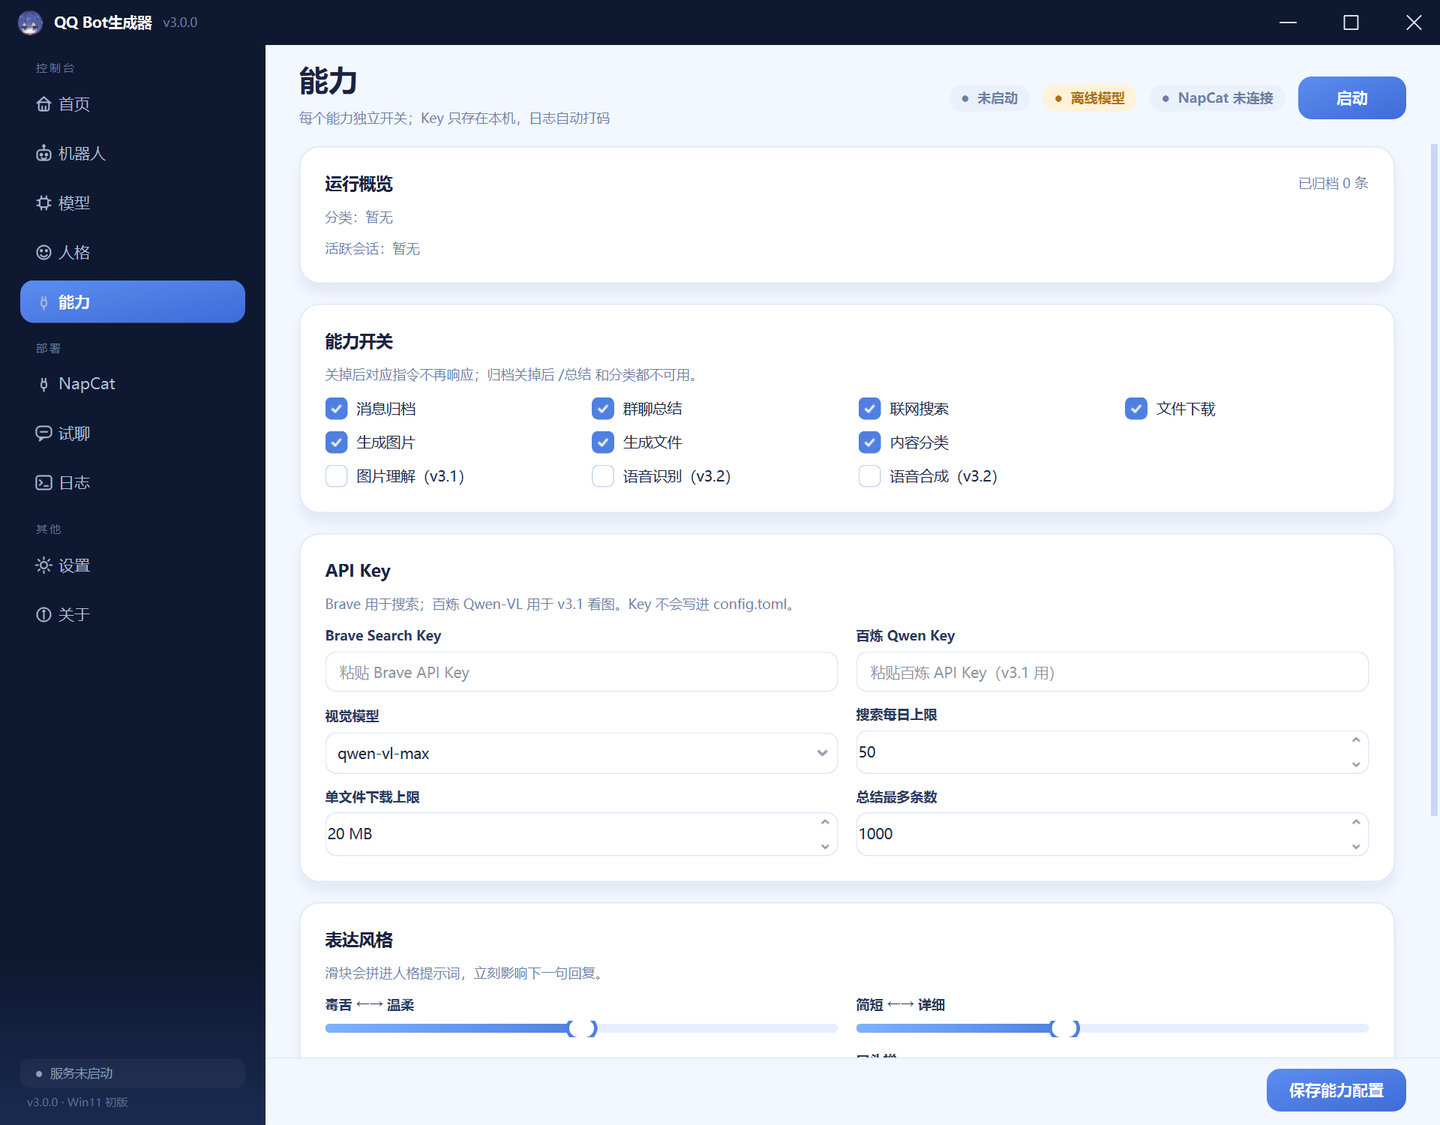
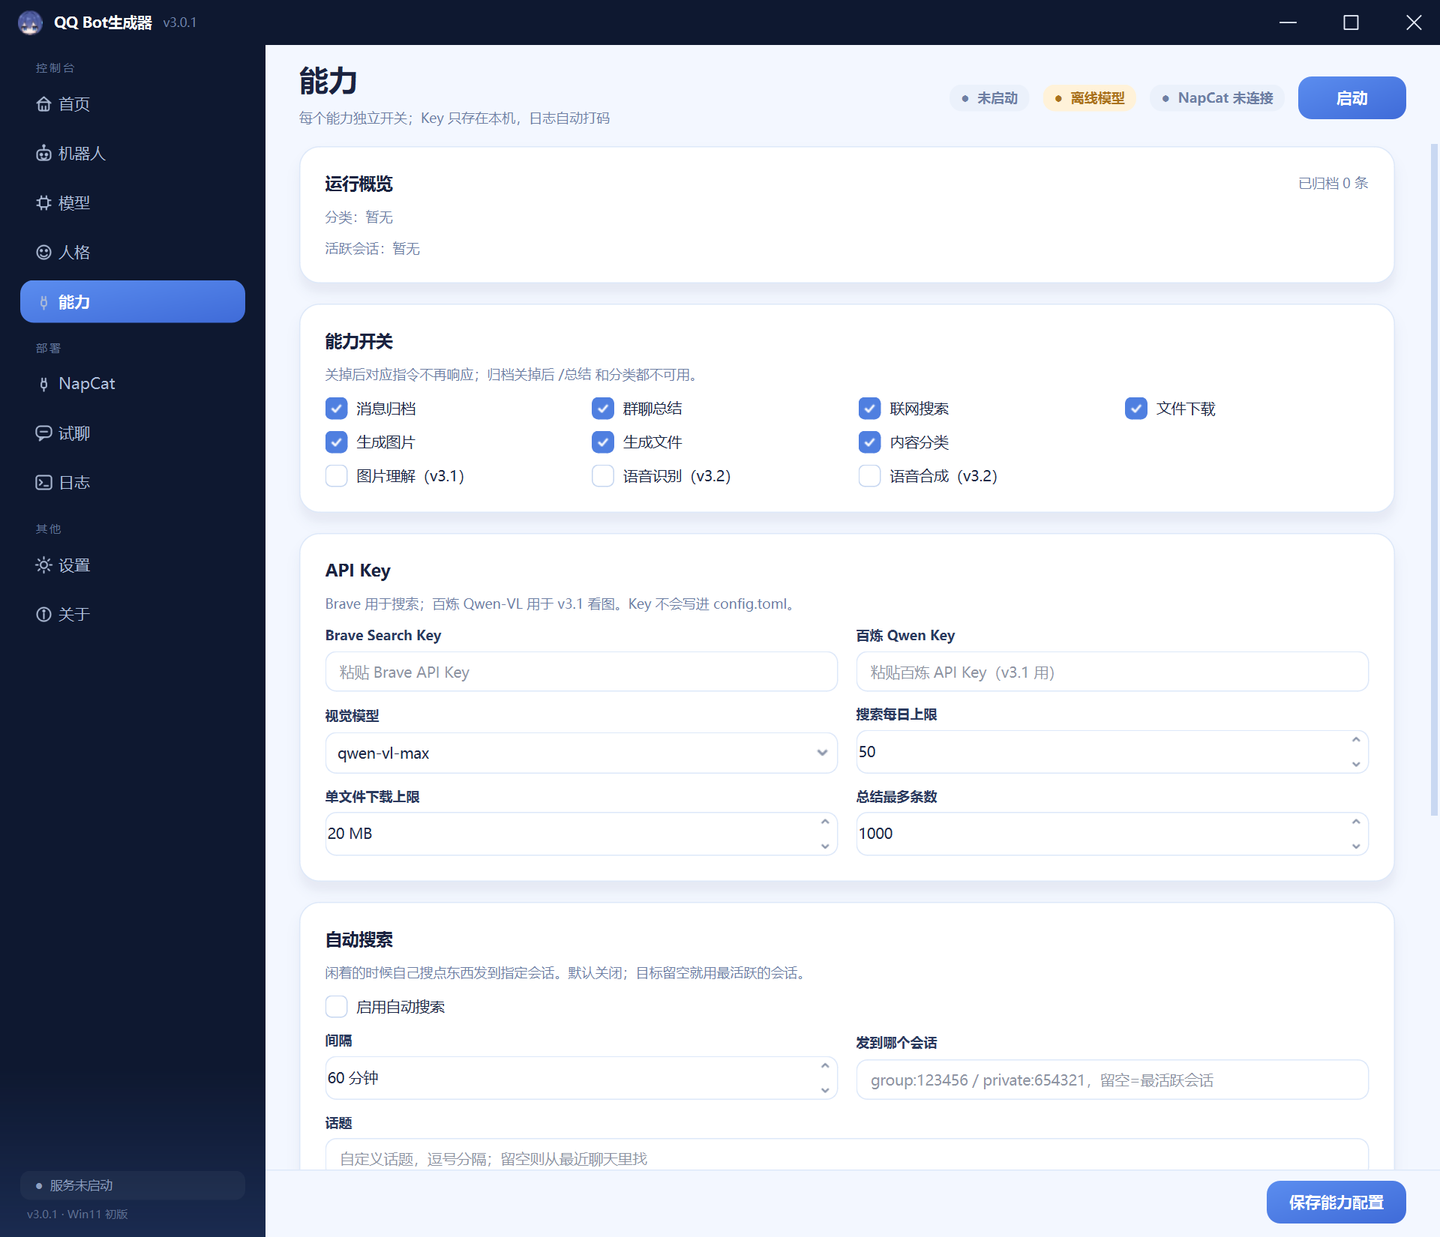
feat: natural-language capabilities and idle auto search (v3.0.1)

diff --git a/src/qqbot_core/engine.py b/src/qqbot_core/engine.py
@@ -5,6 +5,7 @@ from __future__ import annotations
 import asyncio
 import logging
 import random
+import re
 import time
 from collections import deque
 from collections.abc import Awaitable, Callable
@@ -56,6 +57,9 @@ class Engine:
         self._last_random: dict[str, float] = {}
         self._rate = RateLimiter(cfg.chat.rate_limit_per_minute, 60.0)
         self.last_replies: list[str] = []
+        self._auto_task: asyncio.Task | None = None
+        self._search_day = ""
+        self._search_used = 0
         self.features = cfg.features
         self.archive = Archive(cfg.data_dir / "archive.db") if cfg.features.archive else None
         if self.archive is not None:
@@ -77,6 +81,8 @@ class Engine:
         if self_id:
             self.self_id = self_id
         log.info("登录账号：%s（%s）", nickname or "?", self.self_id)
+        if self.features.auto_search and (self._auto_task is None or self._auto_task.done()):
+            self._auto_task = asyncio.create_task(self._auto_search_loop())
 
     # ---------------- 事件入口 ----------------
 
@@ -107,6 +113,10 @@ class Engine:
         if not text:
             return
 
+        addressed = (not incoming.is_group) or incoming.at_me or (incoming.reply_id in self._sent_set)
+        if addressed and await self._natural_intent(text, incoming):
+            return
+
         prefix = self.cfg.chat.prefixes
         at_me_or_private = incoming.at_me or not incoming.is_group
         command = parse_command(text, prefix, allow_bare=at_me_or_private)
@@ -126,6 +136,78 @@ class Engine:
         await self._reply(incoming, text)
 
     # ---------------- 指令 ----------------
+
+    async def _natural_intent(self, text: str, incoming: Incoming) -> bool:
+        """不用 / 指令：直接说“搜一下…”也能触发。"""
+        compact = text.strip()
+        search = re.match(r"^(?:帮我|给我|替我)?\s*(?:搜索一下|搜一下|搜搜|搜索|搜|查一下|查查|查)\s*[:：,，]?\s*(.*)$", compact, re.I)
+        if search and self.features.search:
+            query = search.group(1).strip(" ：:，,")
+            if not query:
+                await self._deliver(incoming, "搜什么？给我个关键词。")
+            else:
+                await self._deliver(incoming, "我去网上看看…")
+                await self._deliver(incoming, await self._search(query))
+            return True
+        summary = re.match(r"^(?:帮我|给我)?\s*(?:总结|汇总)(?:一下|下)?(?:\s*(?:最近)?\s*(\d{1,4})\s*条)?\s*$", compact)
+        if summary and self.features.summarize:
+            count = int(summary.group(1) or self.features.summary_max)
+            count = max(10, min(count, self.features.summary_max))
+            await self._deliver(incoming, "正在翻记录，等我一下…")
+            for part in split_text(await self._summarize(incoming.conversation_key, count), limit=1600):
+                await self._deliver(incoming, part)
+            return True
+        if self.features.download and ("下载" in compact or "存一下" in compact or "保存" in compact):
+            url = re.search(r"https?://\S+", compact)
+            if url:
+                await self._deliver(incoming, await self._download(url.group(0)))
+                return True
+        return False
+
+    async def _auto_search_loop(self) -> None:
+        while True:
+            interval = max(5, int(self.features.auto_search_interval or 60))
+            await asyncio.sleep(interval * 60)
+            if not self.features.auto_search:
+                continue
+            if not get_key(self.cfg.data_dir, "brave"):
+                continue
+            conv = self.features.auto_search_target.strip()
+            if not conv and self.archive:
+                rows = self.archive.conversations()
+                conv = rows[0][0] if rows else ""
+            if not conv:
+                continue
+            topic = self._pick_topic()
+            try:
+                result = await self._search(topic)
+            except Exception as exc:
+                log.warning("自动搜索失败：%s", exc)
+                continue
+            if result.startswith(("搜索失败", "还没配置", "没搜到", "今天搜索")):
+                continue
+            await self._send_to(conv, f"闲着刷到点东西：{result[:600]}")
+
+    def _pick_topic(self) -> str:
+        custom = [x.strip() for x in re.split(r"[,，;；\n]", self.features.auto_search_topics) if x.strip()]
+        if custom:
+            return random.choice(custom)
+        if self.archive:
+            rows = self.archive.recent(self.features.auto_search_target or (self.archive.conversations()[0][0] if self.archive.conversations() else ""), 30)
+            words = [w for row in rows for w in re.findall(r"[\u4e00-\u9fff]{2,6}", row["text"])]
+            if words:
+                return random.choice(words) + " 最近有什么新消息"
+        return random.choice(["今天有什么科技新闻", "最近有什么有趣的冷知识", "这周有什么值得看的新电影"])
+
+    async def _send_to(self, conversation: str, text: str) -> None:
+        if self.link is None or ":" not in conversation:
+            return
+        kind, _, raw = conversation.partition(":")
+        try:
+            target = int(raw)
+        except ValueError:
+            return
+        await self.link.send_text("group" if kind == "group" else "private", target, text)
 
     async def _run_capability(self, name: str, arg: str, incoming: Incoming) -> bool:
         key = name.lower().strip()
@@ -196,6 +278,12 @@ class Engine:
         return f"最近 {len(rows)} 条总结：\n{final.strip()}"
 
     async def _search(self, query: str) -> str:
+        today = time.strftime("%Y-%m-%d")
+        if today != self._search_day:
+            self._search_day = today
+            self._search_used = 0
+        if self._search_used >= self.features.search_daily_limit:
+            return "今天搜索次数用完了，明天再来。"
         key = get_key(self.cfg.data_dir, "brave")
         if not key:
             return "还没配置 Brave Key，去「能力」页填一下。"
@@ -203,6 +291,7 @@ class Engine:
             results = await asyncio.to_thread(brave_search, key, query, 5)
         except ToolError as exc:
             return f"搜索失败：{exc}"
+        self._search_used += 1
         if not results:
             return "没搜到结果。"
         context = "\n".join(f"{i + 1}. {r['title']} {r['url']}\n{r['description']}" for i, r in enumerate(results))

diff --git a/src/qqbot_generator/pages/capabilities.py b/src/qqbot_generator/pages/capabilities.py
@@ -123,6 +123,33 @@ class CapabilitiesPage(BasePage):
         keys.add_layout(row)
         self.add(keys)
 
+        auto = Card()
+        title = QLabel("自动搜索")
+        title.setObjectName("cardTitle")
+        auto.add(title)
+        auto.add(_hint("闲着的时候自己搜点东西发到指定会话。默认关闭；目标留空就用最活跃的会话。"))
+        self.auto_check = QCheckBox("启用自动搜索")
+        self.auto_check.setChecked(bool(f.auto_search))
+        auto.add(self.auto_check)
+        auto_row = QGridLayout()
+        auto_row.setHorizontalSpacing(16)
+        auto_row.setVerticalSpacing(12)
+        self.auto_interval = QSpinBox()
+        self.auto_interval.setRange(5, 720)
+        self.auto_interval.setSuffix(" 分钟")
+        self.auto_interval.setValue(int(f.auto_search_interval))
+        auto_row.addWidget(Field("间隔", self.auto_interval), 0, 0)
+        self.auto_target = QLineEdit(f.auto_search_target)
+        self.auto_target.setPlaceholderText("group:123456 / private:654321，留空=最活跃会话")
+        auto_row.addWidget(Field("发到哪个会话", self.auto_target), 0, 1)
+        self.auto_topics = QLineEdit(f.auto_search_topics)
+        self.auto_topics.setPlaceholderText("自定义话题，逗号分隔；留空则从最近聊天里找")
+        auto_row.addWidget(Field("话题", self.auto_topics), 1, 0, 1, 2)
+        auto.add_layout(auto_row)
+        self.add(auto)
+
+        self.checks["auto_search"] = self.auto_check
+
         style = Card()
         title = QLabel("表达风格")
         title.setObjectName("cardTitle")
@@ -156,8 +183,8 @@ class CapabilitiesPage(BasePage):
         use.add(title)
         use.add(
             _hint(
-                "群里 @ 它或 /总结 1000（最多 1000 条）；/搜 关键词；/下载 链接；"
-                "/做图 文字；/做文件 文件名|内容。私聊可以直接发，不用加 /。"
+                "直接说人话就行：@它 说「搜一下 今天的新闻」「总结最近 200 条」「下载 https://…」；"
+                "私聊不用 @，也不用加 /。斜杠指令仍然保留。"
             )
         )
         self.add(use)
@@ -197,6 +224,10 @@ class CapabilitiesPage(BasePage):
         f.emoji = self.emoji_slider.value()
         f.catchphrase = self.phrase_edit.text().strip()
         f.reply_format = self.format_combo.currentData()
+        f.auto_search = self.auto_check.isChecked()
+        f.auto_search_interval = self.auto_interval.value()
+        f.auto_search_target = self.auto_target.text().strip()
+        f.auto_search_topics = self.auto_topics.text().strip()
         if self.brave_edit.text().strip():
             set_key(self.ctx.data_dir, "brave", self.brave_edit.text().strip())
             self.brave_edit.clear()

diff --git a/src/qqbot_core/config.py b/src/qqbot_core/config.py
@@ -163,6 +163,10 @@ class Config:
             f"download_max_mb = {self.features.download_max_mb}",
             f"summary_max = {self.features.summary_max}",
             f"archive_days = {self.features.archive_days}",
+            f"auto_search = {str(self.features.auto_search).lower()}",
+            f"auto_search_interval = {self.features.auto_search_interval}",
+            f"auto_search_target = {_q(self.features.auto_search_target)}",
+            f"auto_search_topics = {_q(self.features.auto_search_topics)}",
             f"tone = {self.features.tone}",
             f"verbosity = {self.features.verbosity}",
             f"emoji = {self.features.emoji}",
@@ -274,6 +278,10 @@ def _apply(cfg: Config, raw: dict[str, Any]) -> None:
     feat = raw.get("features", {})
     for name in ("archive", "summarize", "search", "download", "gen_image", "gen_file", "classify", "vision", "voice_in", "voice_out"):
         setattr(cfg.features, name, bool(_pick(feat, name, getattr(cfg.features, name))))
+    cfg.features.auto_search = bool(_pick(feat, "auto_search", cfg.features.auto_search))
+    cfg.features.auto_search_interval = int(_pick(feat, "auto_search_interval", cfg.features.auto_search_interval))
+    cfg.features.auto_search_target = str(_pick(feat, "auto_search_target", cfg.features.auto_search_target))
+    cfg.features.auto_search_topics = str(_pick(feat, "auto_search_topics", cfg.features.auto_search_topics))
     for name in ("search_daily_limit", "download_max_mb", "summary_max", "archive_days", "tone", "verbosity", "emoji"):
         setattr(cfg.features, name, int(_pick(feat, name, getattr(cfg.features, name))))
     cfg.features.catchphrase = str(_pick(feat, "catchphrase", cfg.features.catchphrase))

diff --git a/src/qqbot_core/features.py b/src/qqbot_core/features.py
@@ -24,6 +24,10 @@ class FeatureConfig:
     download_max_mb: int = 20
     summary_max: int = 1000
     archive_days: int = 30
+    auto_search: bool = False  # 闲着自动搜索
+    auto_search_interval: int = 60  # 分钟
+    auto_search_target: str = ""  # group:123 / private:456，留空=最活跃会话
+    auto_search_topics: str = ""  # 自定义话题，逗号分隔
 
     # 表达风格
     tone: int = 50  # 0=毒舌 100=温柔

diff --git a/src/qqbot_generator/paths.py b/src/qqbot_generator/paths.py
@@ -10,7 +10,7 @@ from pathlib import Path
 
 APP_NAME = "QQBotGenerator"
 APP_TITLE = "QQ Bot生成器"
-APP_VERSION = "3.0.0"
+APP_VERSION = "3.0.1"
 APP_TAGLINE = "一只住在你 QQ 里的蓝鲸女仆"
 
 

diff --git a/CHANGELOG.md b/CHANGELOG.md
@@ -1,5 +1,12 @@
 # Changelog
 
+## 3.0.1 — 2026-10-19
+
+- 能力支持自然语言触发：@ 它说“搜一下…/总结最近 N 条/下载 链接”即可，不用斜杠；
+- 新增自动搜索：可设间隔、目标会话、自定义话题，默认关闭；
+- 搜索每日上限真正生效；
+- 修复下拉选项在深色系统下的黑边。
+
 ## 3.0.0 — 2026-10-19
 
 - 新增「能力」页：归档、总结、搜索、下载、做图、做文件、分类独立开关；
